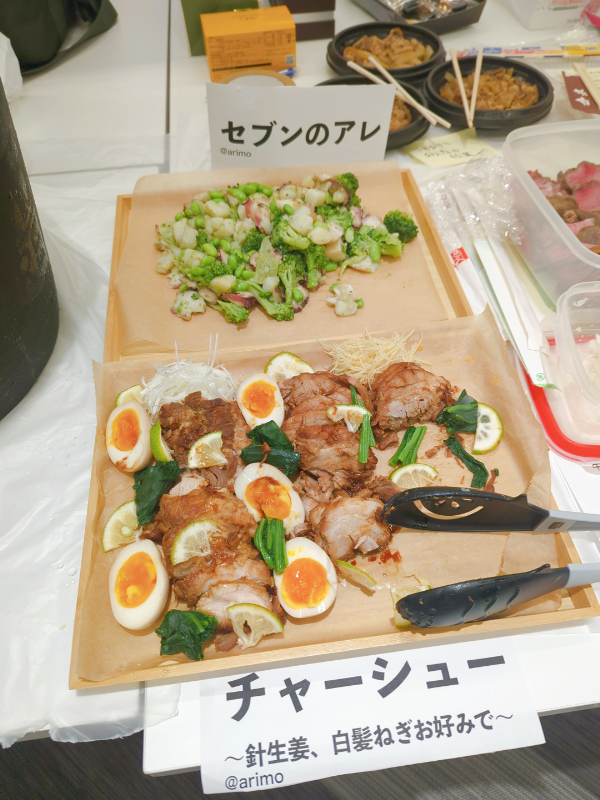
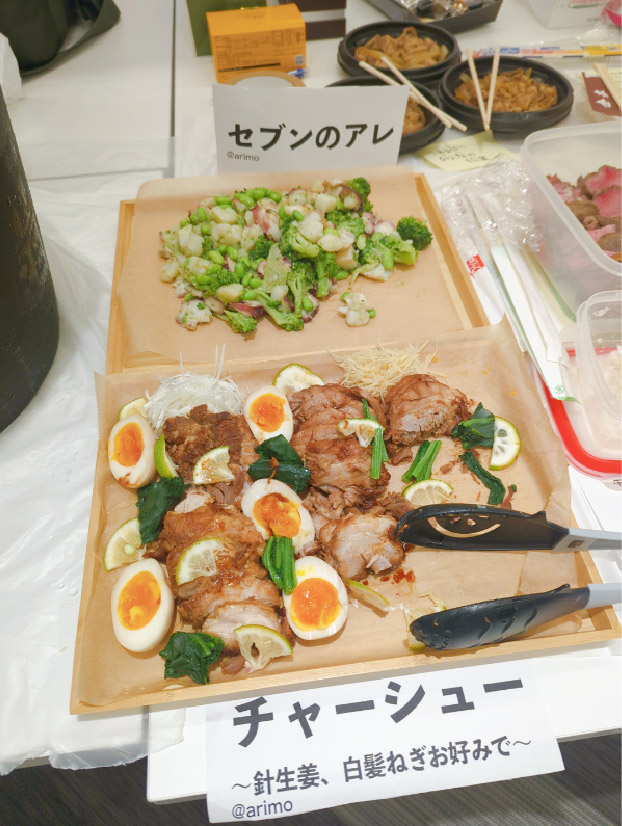
不要なファイルの削除と画像の軽量化

diff --git a/articles/0065/_posts/2024-09-29-0065-TokyuRubyKaigi15Report.md b/articles/0065/_posts/2024-09-29-0065-TokyuRubyKaigi15Report.md
@@ -4,7 +4,7 @@ title: RegionalRubyKaigi レポート (87) TokyuRuby会議15 レポート
 short_title: RegionalRubyKaigi レポート (87) TokyuRuby会議15 レポート
 tags: 0065 tqrk regionalRubyKaigi
 post_author: shokola
-created_on: 2024-12-01
+created_on: 2024-12-14
 ---
 {% include base.html %}
 
